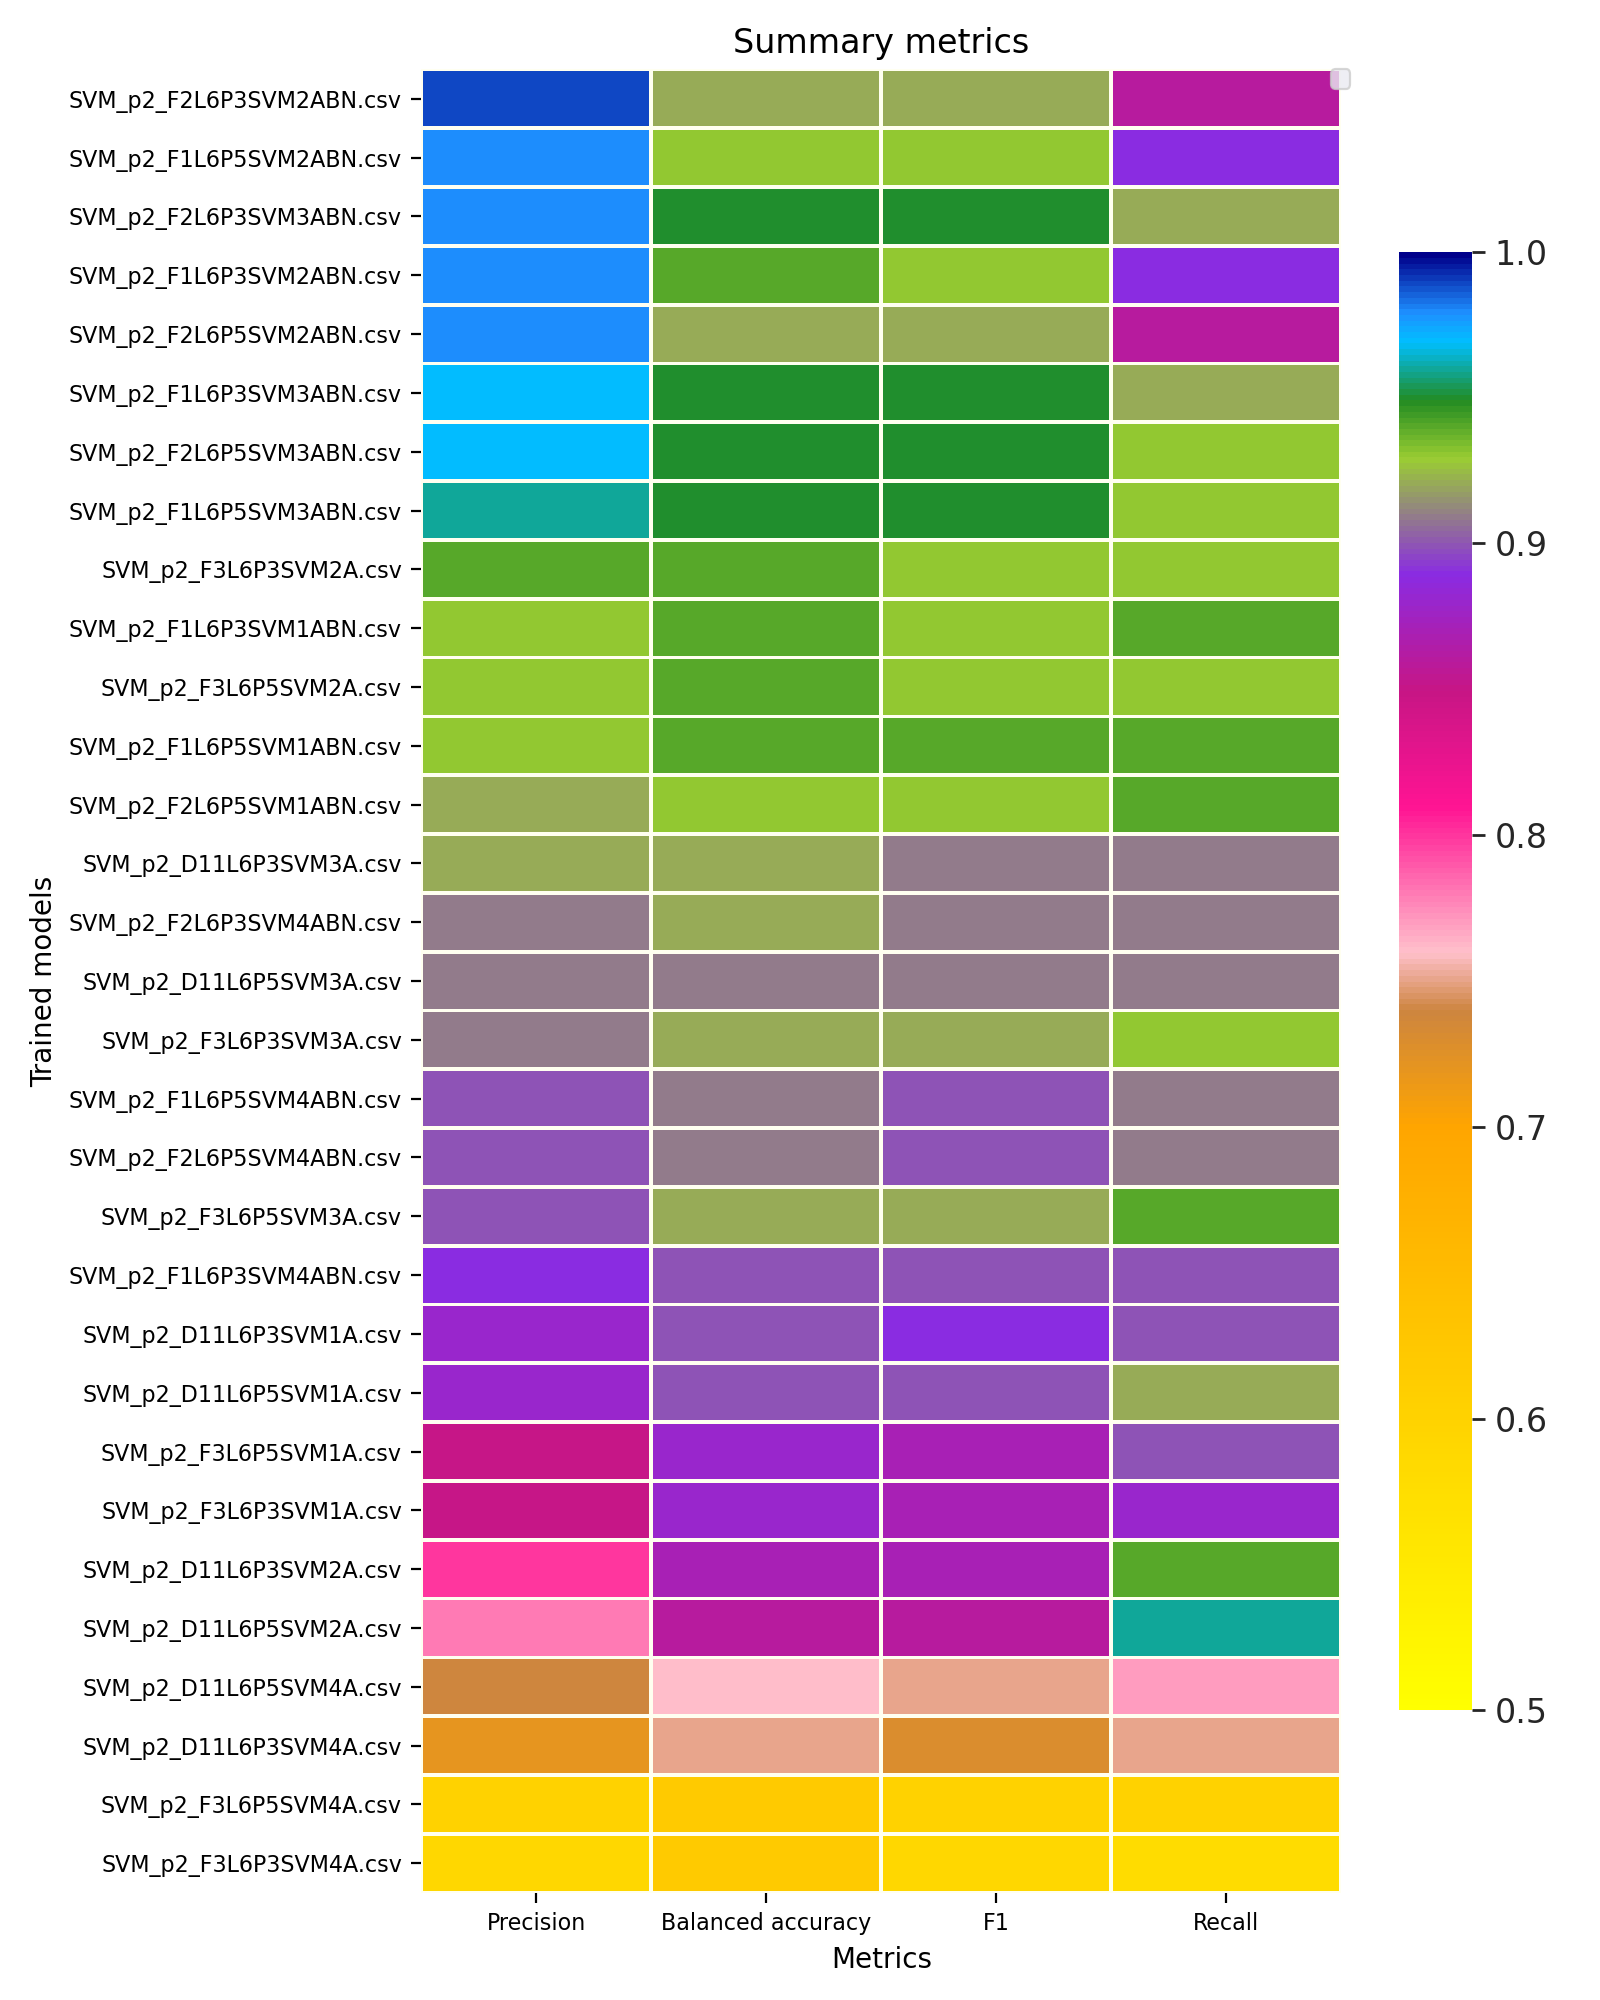
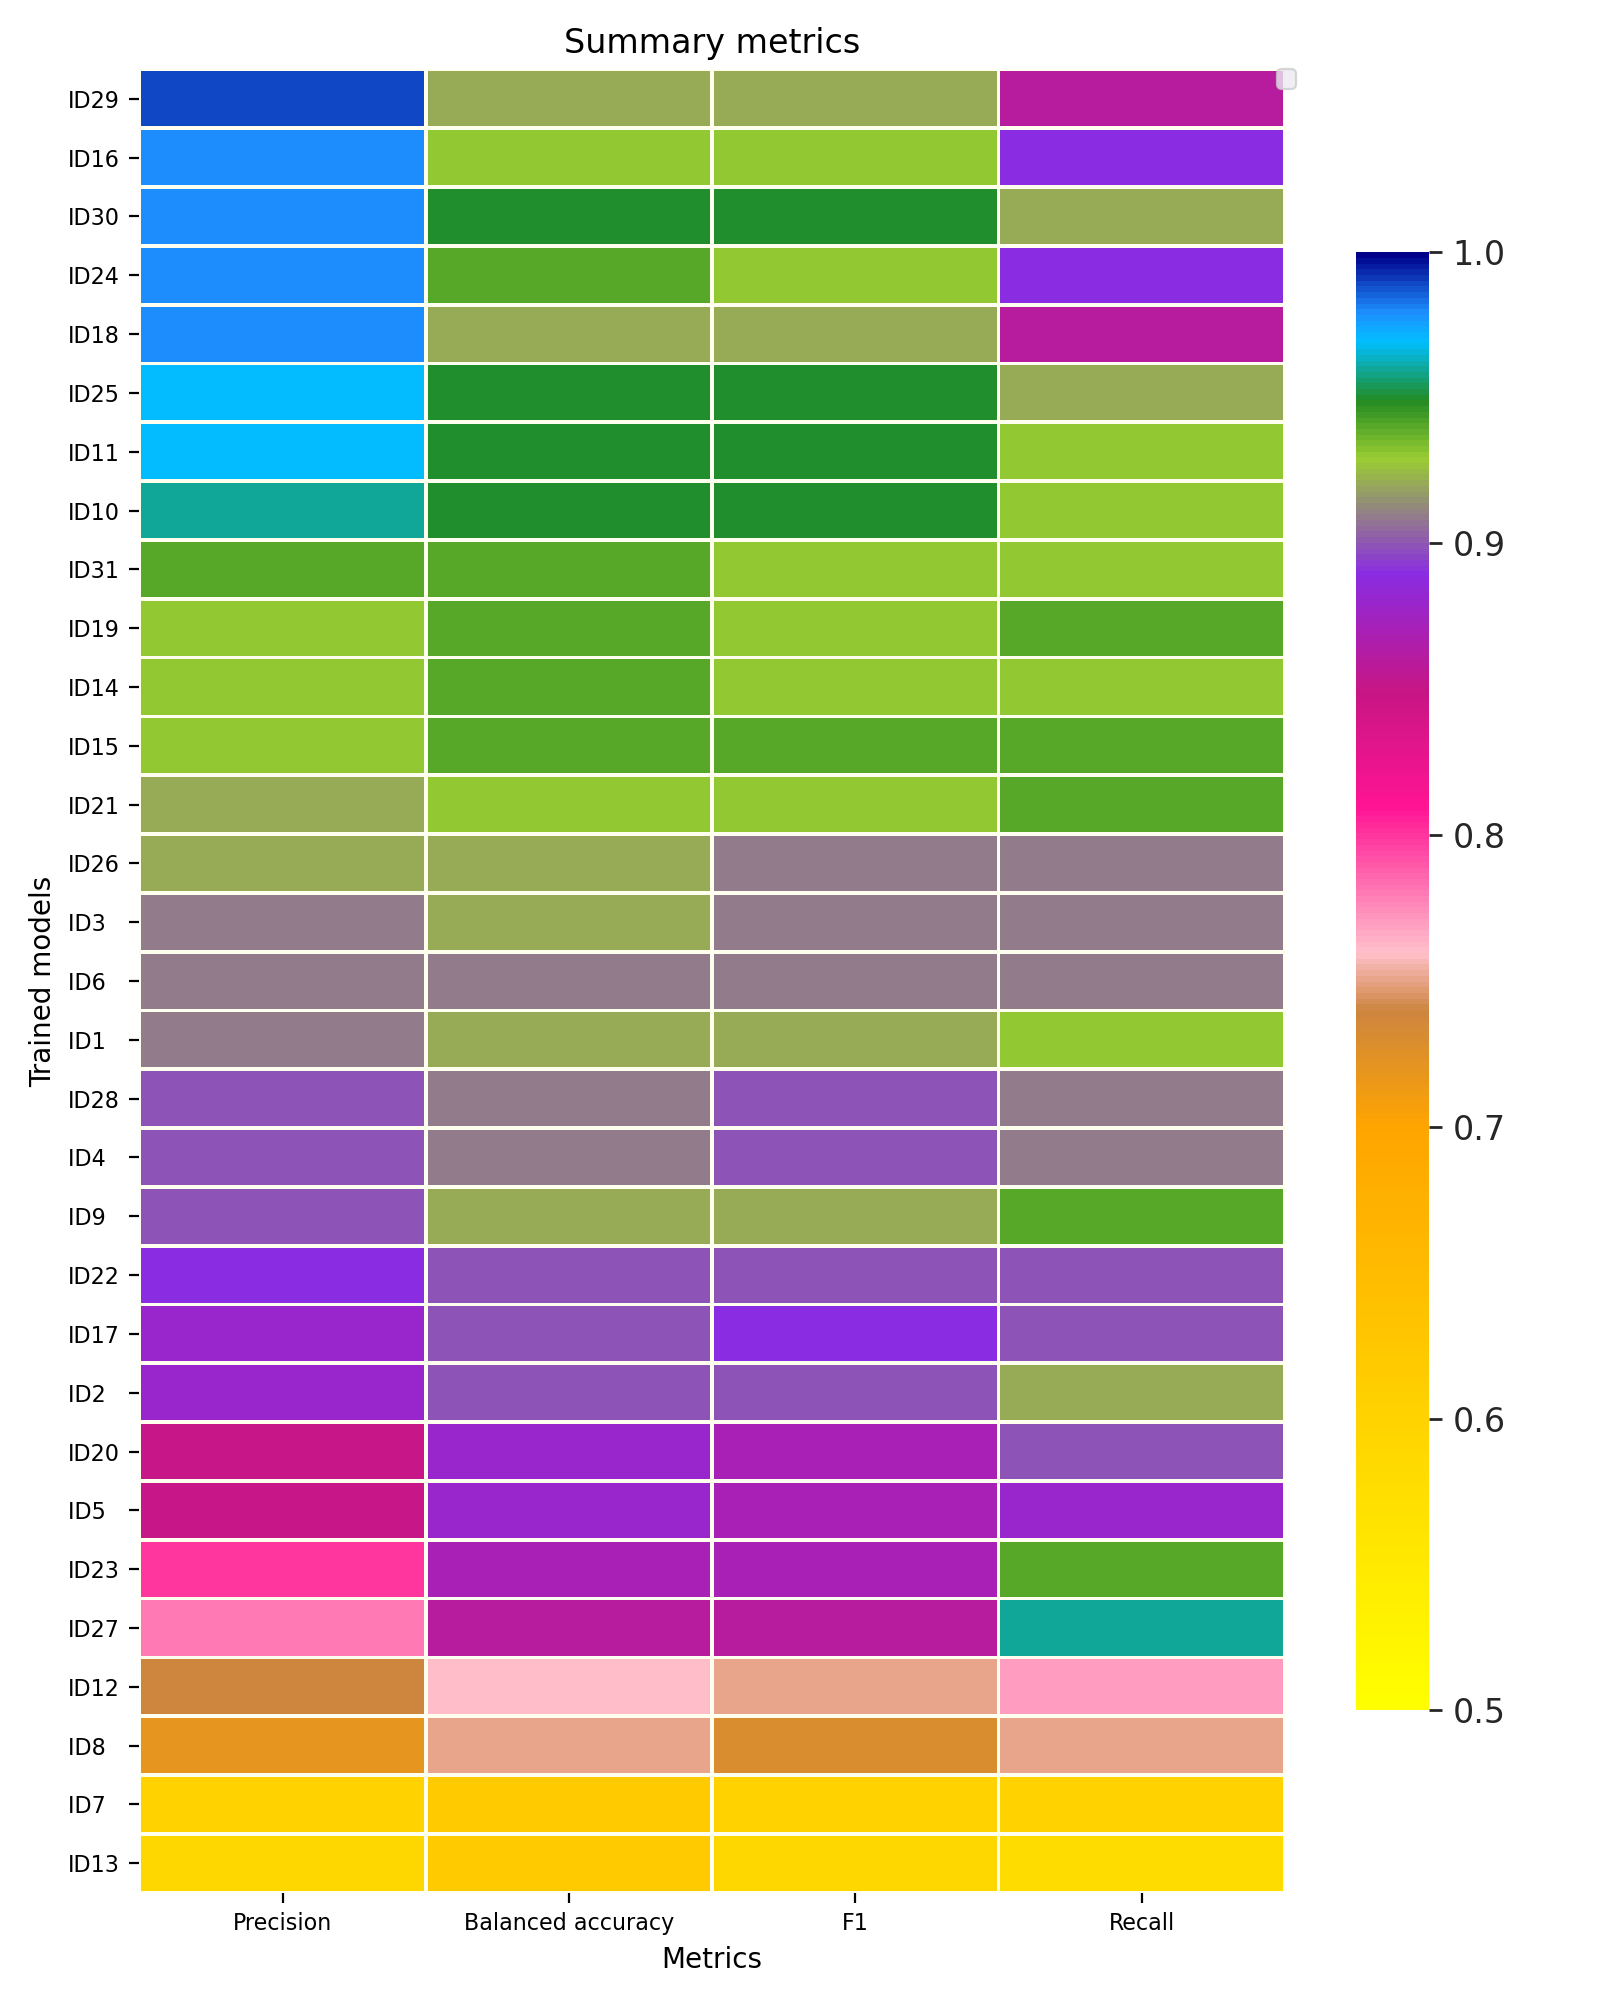
update summary_metrics.py

diff --git a/phase-2_a/Supervised_Models/SVM/Info/summary_metrics.py b/phase-2_a/Supervised_Models/SVM/Info/summary_metrics.py
@@ -9,7 +9,10 @@ import seaborn as sns
 import statistics as st
 import itertools as it
 
-"""Recall"""
+"""Summary metrics
+    get the id of the model
+    get performence metrics and plot results in a headmap
+"""
 
 root = {
     "root": "/home/babs/Documents/DIFACQUIM/PPI_classifier/phase-2_a/Databases/",
@@ -21,15 +24,33 @@ for file in os.listdir():
         arr.append(file)
 DF = pd.DataFrame
 
+# read id models csv
+id_dataframe = pd.read_csv(f'{root["SVM"]}{"p2_id_models.csv"}', index_col="Unnamed: 0")
+print(id_dataframe.head())
+
+
+def find_model_id(model_name):
+    "find the model id acording to model name"
+    model_name = model_name.replace(".csv", "")
+    _ = id_dataframe.loc[id_dataframe["model name"] == model_name, "id_model"]
+    id_model = _.iloc[0]
+    if len(id_model) == 3:
+        label = id_model + "  "
+    else:
+        label = id_model
+    return label
+
 
 def storage_info(arr):
-    """storage recall"""
+    """storage metrics"""
+    id_models = list()
     balanced_accuracy = list()
     precision = list()
     f1 = list()
     recall = list()
     for i in range(len(arr)):
         print(arr[i])
+        id_models.append(find_model_id(arr[i]))  # storage id model
         df = pd.read_csv(arr[i])
         a = df.loc[2][2]
         if a == "linear":
@@ -44,15 +65,18 @@ def storage_info(arr):
             recall.append(round(float(df.loc[18][2]), 2))
     DF = pd.DataFrame.from_dict(
         {
-            "Model": arr,
+            "id_model": id_models,
+            "Model name": arr,
             "Precision": precision,
             "Balanced accuracy": balanced_accuracy,
             "F1": f1,
             "Recall": recall,
         }
     )
+    print(DF.head())
     DF = DF.sort_values("Precision", ascending=False)
     DF = DF.reset_index(drop=True)
+    print(DF.head())
     DF.to_csv(
         "/home/babs/Documents/DIFACQUIM/PPI_classifier/phase-2_a/Supervised_Models/SVM/Info/info_metrics/summary_metrics.csv"
     )
@@ -61,7 +85,8 @@ def storage_info(arr):
 
 
 def plot(DF):
-    DF = DF.set_index("Model")
+    DF = DF.set_index("id_model")
+    DF = DF.drop("Model name", axis=1)
     print(DF.head())
     plt.figure(figsize=[8, 10])
     ax = plt.subplot()
@@ -112,7 +137,7 @@ def plot(DF):
         data=DF,
         cmap=cmap,
         linewidth=1,
-        # annot=True,
+        annot=True,
         linecolor="ivory",
         vmin=0.50,
         vmax=1.0,
@@ -130,7 +155,7 @@ def plot(DF):
     plt.tight_layout(h_pad=0.9)
 
     plt.savefig(
-        "/home/babs/Documents/DIFACQUIM/PPI_classifier/phase-2_a/Supervised_Models/SVM/Info/plot_metrics/headmap_summary.png",
+        "/home/babs/Documents/DIFACQUIM/PPI_classifier/phase-2_a/Supervised_Models/SVM/Info/plot_metrics/headmap_annot_summary.png",
         dpi=200,
     )
     plt.show()

diff --git a/phase-2_a/Supervised_Models/SVM/Info/summary_metrics_zoom.py b/phase-2_a/Supervised_Models/SVM/Info/summary_metrics_zoom.py
@@ -9,7 +9,10 @@ import seaborn as sns
 import statistics as st
 import itertools as it
 
-"""Recall"""
+"""Summary metrics
+    get the id of the model
+    get performence metrics and plot results in a headmap
+"""
 
 root = {
     "root": "/home/babs/Documents/DIFACQUIM/PPI_classifier/phase-2_a/Databases/",
@@ -21,15 +24,33 @@ for file in os.listdir():
         arr.append(file)
 DF = pd.DataFrame
 
+# read id models csv
+id_dataframe = pd.read_csv(f'{root["SVM"]}{"p2_id_models.csv"}', index_col="Unnamed: 0")
+print(id_dataframe.head())
+
+
+def find_model_id(model_name):
+    "find the model id acording to model name"
+    model_name = model_name.replace(".csv", "")
+    _ = id_dataframe.loc[id_dataframe["model name"] == model_name, "id_model"]
+    id_model = _.iloc[0]
+    if len(id_model) == 3:
+        label = id_model + "  "
+    else:
+        label = id_model
+    return label
+
 
 def storage_info(arr):
-    """storage recall"""
+    """storage metrics"""
+    id_models = list()
     balanced_accuracy = list()
     precision = list()
     f1 = list()
     recall = list()
     for i in range(len(arr)):
         print(arr[i])
+        id_models.append(find_model_id(arr[i]))  # storage id model
         df = pd.read_csv(arr[i])
         a = df.loc[2][2]
         if a == "linear":
@@ -44,7 +65,8 @@ def storage_info(arr):
             recall.append(round(float(df.loc[18][2]), 2))
     DF = pd.DataFrame.from_dict(
         {
-            "Model": arr,
+            "id_model": id_models,
+            "Model name": arr,
             "Precision": precision,
             "Balanced accuracy": balanced_accuracy,
             "F1": f1,
@@ -61,7 +83,9 @@ def storage_info(arr):
 
 
 def plot(DF):
-    DF = DF.set_index("Model")
+    DF = DF.set_index("id_model")
+    DF = DF.drop("Model name", axis=1)
+    # filter by a precision cote
     DF = DF[DF["Precision"] > 0.84]
     print(DF.head())
     plt.figure(figsize=[8, 10])
@@ -126,7 +150,7 @@ def plot(DF):
         data=DF,
         cmap=cmap,
         linewidth=1,
-        # annot=True,
+        annot=True,
         linecolor="ivory",
         vmin=0.85,
         vmax=0.999,
@@ -144,7 +168,7 @@ def plot(DF):
     plt.tight_layout(h_pad=0.9)
 
     plt.savefig(
-        "/home/babs/Documents/DIFACQUIM/PPI_classifier/phase-2_a/Supervised_Models/SVM/Info/plot_metrics/headmap_summary_zoom.png",
+        "/home/babs/Documents/DIFACQUIM/PPI_classifier/phase-2_a/Supervised_Models/SVM/Info/plot_metrics/headmap_annot_summary_zoom.png",
         dpi=200,
     )
     plt.show()
